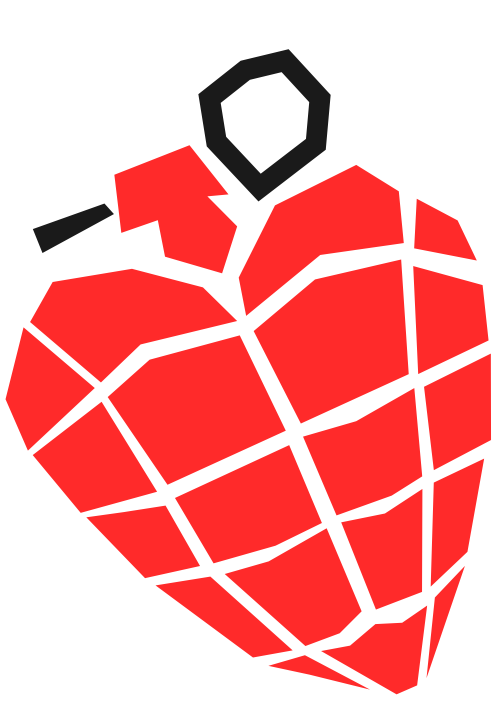
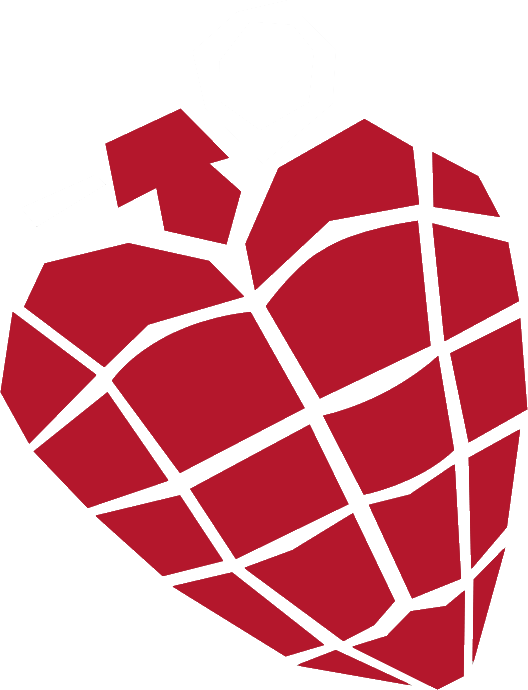
nuevos cambios

diff --git a/index.html b/index.html
@@ -3,16 +3,16 @@
 <head>
     <meta charset="UTF-8">
     <meta name="viewport" content="width=device-width, initial-scale=1.0">
-    <link href="https://cdn.jsdelivr.net/npm/bootstrap@5.3.3/dist/css/bootstrap.min.css" rel="stylesheet" integrity="sha384-QWTKZyjpPEjISv5WaRU9OFeRpok6YctnYmDr5pNlyT2bRjXh0JMhjY6hW+ALEwIH" crossorigin="anonymous">
+    <!--<link href="https://cdn.jsdelivr.net/npm/bootstrap@5.3.3/dist/css/bootstrap.min.css" rel="stylesheet" integrity="sha384-QWTKZyjpPEjISv5WaRU9OFeRpok6YctnYmDr5pNlyT2bRjXh0JMhjY6hW+ALEwIH" crossorigin="anonymous"> -->
     <title>Sweet Children | Banda Tributo a Green Day</title>
     <meta name="description" content="¡Somos la banda tributo a Green Day que deberias escuchar Y NO LO ESTAS HACIENDO!">
     <meta name="keywords" content="GreenDay, Show ,Concierto, Recital, Banda, Punk, Rock, Tributo, Musica">
     <link rel="shortcut icon" href="./imagenes/heart.png" type="image/x-icon">
     <link rel="stylesheet" href="./css/style.css">
-    
 </head>
 <body>
-    <header id="arriba">
+    <header>
+        <img class="heartlogo" src="./imagenes/heart.png" alt="handgrenade">
         <h1>SWEET CHILDREN</h1>
         <nav class="flexnav">
             <a class="dontclick">Inicio</a>
@@ -30,10 +30,9 @@
             ullam a nibh ipsum. Aenean id tortor luctus, luctus magna a, maximus risus. Sed commodo et odio sed eleifend. Nullam fermentumlacus non fficitur fringilla. Sed tincidunt mauris in purus venenatis, varius congue justo aliquet. Nunc ipsum nisi, vulputate aarcu eget,imperdiet mperdiet enim. Aliquam sed eleifend urna. Nulla non purus eget turpis malesuada aliquam. Proin ac leo tortor.Aenean pretiumtincidunt onvallis.</p>
     </main>
     <footer>
-        <a href="https://www.instagram.com/guillermo.laviero.correia/" target="_blank"><img src="./imagenes/klipartz.com.png" alt="Instagram" width="50px"></a>
+        <a href="https://www.instagram.com/guille_laviero" target="_blank"><img src="./imagenes/klipartz.com.png" alt="Instagram" width="50px"></a>
         <a href="https://www.youtube.com/@gorilanator" target="_blank"><img src="./imagenes/pngwing.com.png" alt="youtube" width="50px"></a>
-        <a href="#arriba" class="cielo">¡Volar al cielo!</a>
     </footer>
-    <script src="https://cdn.jsdelivr.net/npm/bootstrap@5.3.3/dist/js/bootstrap.bundle.min.js" integrity="sha384-YvpcrYf0tY3lHB60NNkmXc5s9fDVZLESaAA55NDzOxhy9GkcIdslK1eN7N6jIeHz" crossorigin="anonymous"></script>
+    <!--<script src="https://cdn.jsdelivr.net/npm/bootstrap@5.3.3/dist/js/bootstrap.bundle.min.js" integrity="sha384-YvpcrYf0tY3lHB60NNkmXc5s9fDVZLESaAA55NDzOxhy9GkcIdslK1eN7N6jIeHz" crossorigin="anonymous"></script>-->
 </body>
 </html>

diff --git a/pages/contacto.html b/pages/contacto.html
@@ -4,6 +4,7 @@
     <meta charset="UTF-8">
     <meta name="viewport" content="width=device-width, initial-scale=1.0">
     <title>Sweet Children | Contactanos</title>
+    <link href="https://cdn.jsdelivr.net/npm/bootstrap@5.3.3/dist/css/bootstrap.min.css" rel="stylesheet" integrity="sha384-QWTKZyjpPEjISv5WaRU9OFeRpok6YctnYmDr5pNlyT2bRjXh0JMhjY6hW+ALEwIH" crossorigin="anonymous">
     <meta name="keywords" content="GreenDay, Show ,Concierto, Recital, Banda, Punk, Rock, Tributo, Musica">
     <meta name="description" content="¡Ponete en contacto con nosotros!">
     <link rel="stylesheet" href="../css/style.css">
@@ -69,5 +70,6 @@
         <a href="https://www.instagram.com/guillermo.laviero.correia/" target="_blank"><img src="../imagenes/klipartz.com.png" alt="Instagram" width="50px"></a>
         <a href="https://www.youtube.com/@gorilanator" target="_blank"><img src="../imagenes/pngwing.com.png" alt="youtube" width="50px"></a>
     </footer>
+    <script src="https://cdn.jsdelivr.net/npm/bootstrap@5.3.3/dist/js/bootstrap.bundle.min.js" integrity="sha384-YvpcrYf0tY3lHB60NNkmXc5s9fDVZLESaAA55NDzOxhy9GkcIdslK1eN7N6jIeHz" crossorigin="anonymous"></script>
 </body>
 </html>

diff --git a/css/style.css b/css/style.css
@@ -1,3 +1,4 @@
+/*Para compilar SASS a CSS usar el comando en consola: sass --watch scss:css*/
 /*Botonera de navegacion*/
 .flexnav {
   display: flex;
@@ -159,15 +160,13 @@ table {
   }
 }
 /*Footer con links a redes sociales*/
+footer {
+  background-color: black;
+}
 footer a {
   text-decoration: none;
   font-weight: bold;
   margin: 15px;
-}
-
-.cielo {
-  color: black;
-  background-color: aqua;
 }
 
 * {
@@ -187,6 +186,12 @@ body {
   background-image: url(../imagenes/wallpaperflare.com_wallpaper\ \(1\).jpg);
 }
 
+.heartlogo {
+  width: 180px;
+  height: 180px;
+  max-width: 25%;
+}
+
 h1 {
   text-align: center;
   font-family: "punk-rock";
@@ -194,6 +199,7 @@ h1 {
   color: aliceblue;
   letter-spacing: 4px;
   margin: 25px;
+  max-width: 50%;
 }
 
 .mainimg {

diff --git a/scss/style.scss b/scss/style.scss
@@ -1,3 +1,5 @@
+/*Para compilar SASS a CSS usar el comando en consola: sass --watch scss:css*/
+
 @import "navbar";
 @import "fechas";
 @import "photo";
@@ -20,6 +22,13 @@ body {
 	text-align: center;
 	background-image: url(../imagenes/wallpaperflare.com_wallpaper\ \(1\).jpg);
 }
+
+.heartlogo {
+	width: 180px;
+	height: 180px;
+	max-width: 25%;
+}
+
 h1 {
 	text-align: center;
 	font-family: "punk-rock";
@@ -27,6 +36,7 @@ h1 {
 	color: aliceblue;
 	letter-spacing: 4px;
 	margin: 25px;
+	max-width: 50%;
 }
 .mainimg {
 	max-width: 100%;

diff --git a/scss/_foot.scss b/scss/_foot.scss
@@ -1,13 +1,10 @@
 /*Footer con links a redes sociales*/
 
 footer {
+	background-color: black;
 	a {
 		text-decoration: none;
 		font-weight: bold;
 		margin: 15px;
 	}
-}
-.cielo {
-	color: black;
-	background-color: aqua;
 }
